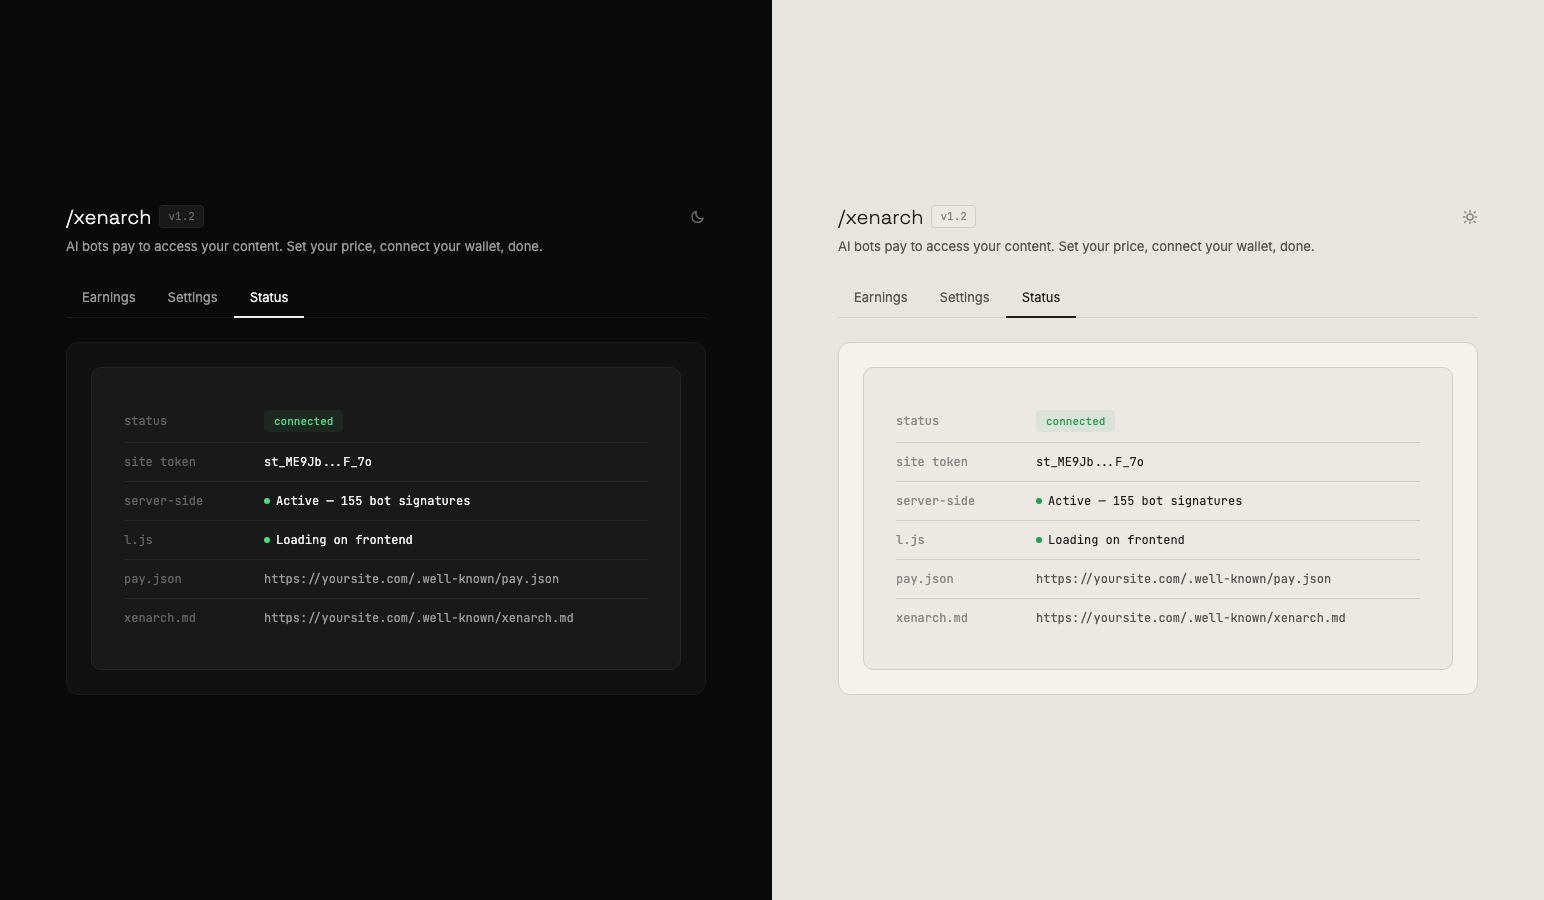
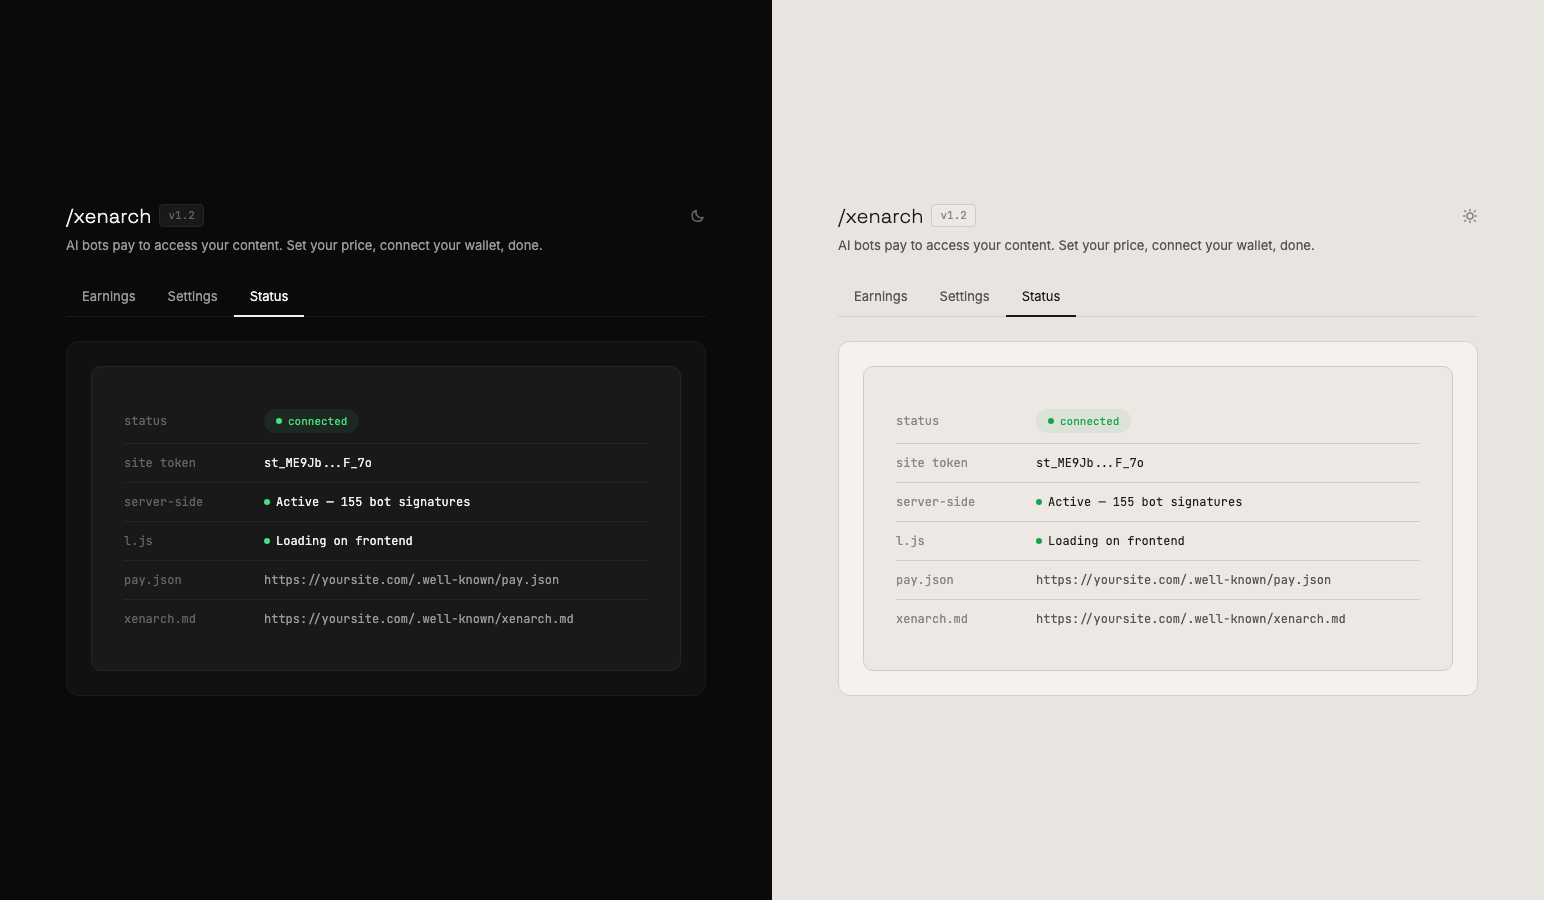
fix: use proper status pill design with dot from mood board
XEN-57

diff --git a/wordpress/mockups/states-status.html b/wordpress/mockups/states-status.html
@@ -61,7 +61,8 @@
   .dot { width: 6px; height: 6px; border-radius: 50%; flex-shrink: 0; }
   .dot-ok { background: var(--success); }
   .dot-err { background: var(--error); }
-  .status-pill { font-family: 'JetBrains Mono', monospace; font-size: 11px; padding: 3px 10px; border-radius: 4px; }
+  .status-pill { display: inline-flex; align-items: center; gap: 6px; font-family: 'JetBrains Mono', monospace; font-size: 11px; font-weight: 500; padding: 4px 12px; border-radius: 100px; }
+  .status-pill-dot { width: 6px; height: 6px; border-radius: 50%; background: currentColor; }
   .status-pill.ok { color: var(--success); background: var(--success-bg); }
   .status-pill.err { color: var(--error); background: var(--error-bg); }
   .status-pill.pending { color: var(--pending); background: var(--pending-bg); }
@@ -94,7 +95,7 @@
     <div class="status-card">
       <div class="data-row">
         <span class="data-key">status</span>
-        <span class="data-val"><span class="status-pill ok">connected</span></span>
+        <span class="data-val"><span class="status-pill ok"><span class="status-pill-dot"></span>connected</span></span>
       </div>
       <div class="data-row">
         <span class="data-key">site token</span>
@@ -130,7 +131,7 @@
     <div class="status-card">
       <div class="data-row">
         <span class="data-key">status</span>
-        <span class="data-val"><span class="status-pill err">disconnected</span></span>
+        <span class="data-val"><span class="status-pill err"><span class="status-pill-dot"></span>disconnected</span></span>
       </div>
       <div class="data-row">
         <span class="data-key">site token</span>
@@ -166,7 +167,7 @@
     <div class="status-card">
       <div class="data-row">
         <span class="data-key">status</span>
-        <span class="data-val"><span class="status-pill pending">pending</span></span>
+        <span class="data-val"><span class="status-pill pending"><span class="status-pill-dot"></span>pending</span></span>
       </div>
       <div class="data-row">
         <span class="data-key">site token</span>

diff --git a/wordpress/mockups/screenshots/07-status.html b/wordpress/mockups/screenshots/07-status.html
@@ -50,7 +50,8 @@
   .data-val a:hover { color: var(--fg); }
   .dot { width: 6px; height: 6px; border-radius: 50%; flex-shrink: 0; }
   .dot-ok { background: var(--success); }
-  .status-pill { font-family: 'JetBrains Mono', monospace; font-size: 11px; padding: 3px 10px; border-radius: 4px; }
+  .status-pill { display: inline-flex; align-items: center; gap: 6px; font-family: 'JetBrains Mono', monospace; font-size: 11px; font-weight: 500; padding: 4px 12px; border-radius: 100px; }
+  .status-pill-dot { width: 6px; height: 6px; border-radius: 50%; background: currentColor; }
   .status-pill.ok { color: var(--success); background: var(--success-bg); }
 </style>
 </head>
@@ -74,7 +75,7 @@
       <div class="status-card">
         <div class="data-row">
           <span class="data-key">status</span>
-          <span class="data-val"><span class="status-pill ok">connected</span></span>
+          <span class="data-val"><span class="status-pill ok"><span class="status-pill-dot"></span>connected</span></span>
         </div>
         <div class="data-row">
           <span class="data-key">site token</span>
@@ -117,7 +118,7 @@
       <div class="status-card">
         <div class="data-row">
           <span class="data-key">status</span>
-          <span class="data-val"><span class="status-pill ok">connected</span></span>
+          <span class="data-val"><span class="status-pill ok"><span class="status-pill-dot"></span>connected</span></span>
         </div>
         <div class="data-row">
           <span class="data-key">site token</span>

diff --git a/wordpress/mockups/status.html b/wordpress/mockups/status.html
@@ -57,7 +57,8 @@
   .dot { width: 6px; height: 6px; border-radius: 50%; flex-shrink: 0; }
   .dot-ok { background: var(--success); }
   .dot-err { background: var(--error); }
-  .status-pill { font-family: 'JetBrains Mono', monospace; font-size: 11px; padding: 3px 10px; border-radius: 4px; }
+  .status-pill { display: inline-flex; align-items: center; gap: 6px; font-family: 'JetBrains Mono', monospace; font-size: 11px; font-weight: 500; padding: 4px 12px; border-radius: 100px; }
+  .status-pill-dot { width: 6px; height: 6px; border-radius: 50%; background: currentColor; }
   .status-pill.ok { color: var(--success); background: var(--success-bg); }
   .status-pill.err { color: var(--error); background: var(--error-bg); }
 </style>
@@ -83,7 +84,7 @@
   <div class="status-card">
     <div class="data-row">
       <span class="data-key">status</span>
-      <span class="data-val"><span class="status-pill ok">connected</span></span>
+      <span class="data-val"><span class="status-pill ok"><span class="status-pill-dot"></span>connected</span></span>
     </div>
     <div class="data-row">
       <span class="data-key">site token</span>

diff --git a/wordpress/admin-ui/src/styles/admin.css b/wordpress/admin-ui/src/styles/admin.css
@@ -1549,10 +1549,21 @@
 /* ═══════ STATUS PILLS ═══════ */
 
 #xenarch-admin .xn-status-pill {
+  display: inline-flex;
+  align-items: center;
+  gap: 6px;
   font-family: 'JetBrains Mono', monospace;
   font-size: 11px;
-  padding: 3px 10px;
-  border-radius: 4px;
+  font-weight: 500;
+  padding: 4px 12px;
+  border-radius: 100px;
+}
+
+#xenarch-admin .xn-status-pill-dot {
+  width: 6px;
+  height: 6px;
+  border-radius: 50%;
+  background: currentColor;
 }
 
 #xenarch-admin .xn-status-pill--ok {

diff --git a/wordpress/admin-ui/src/components/StatusTab.tsx b/wordpress/admin-ui/src/components/StatusTab.tsx
@@ -44,7 +44,7 @@ export function StatusTab({ settings }: Props) {
       <div className="xn-data-row">
         <span className="xn-data-key">status</span>
         <span className="xn-data-val">
-          <span className={`xn-status-pill ${pillClass}`}>{pillLabel}</span>
+          <span className={`xn-status-pill ${pillClass}`}><span className="xn-status-pill-dot"></span>{pillLabel}</span>
         </span>
       </div>
 
